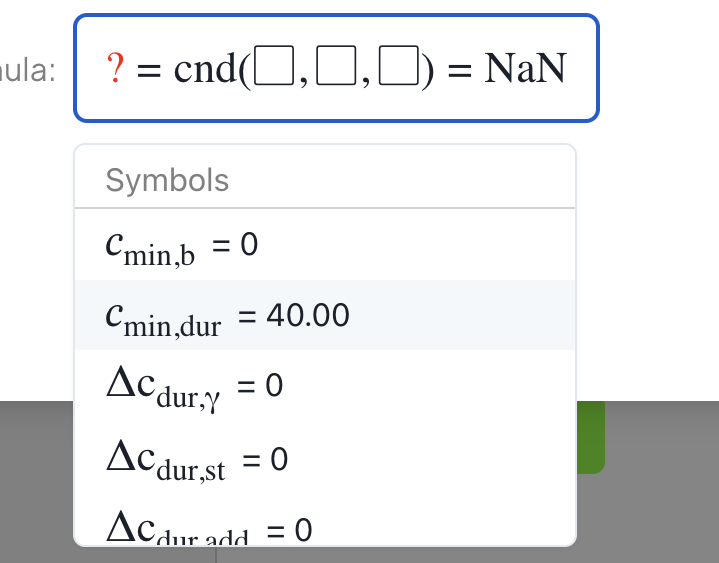
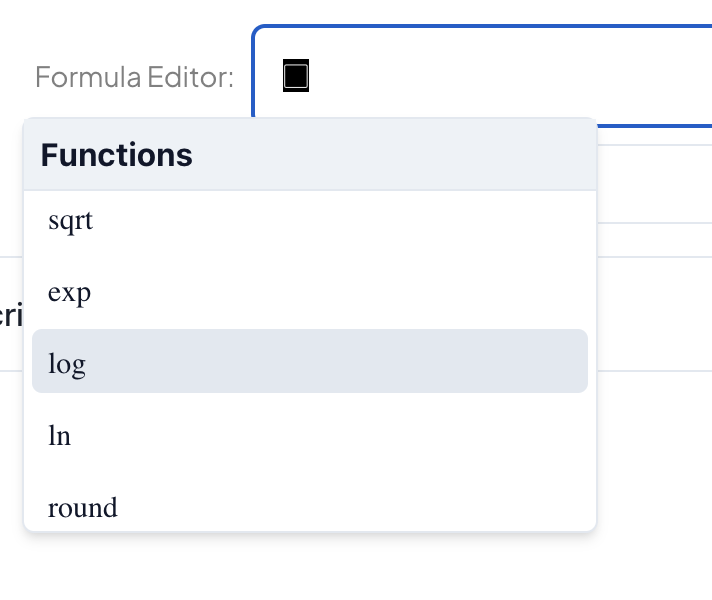
update

diff --git a/README.md b/README.md
@@ -1,21 +1,19 @@
 # Quick Start
 
-Welcome to the Quick Start Guide for Enjicalc, your collaborative software solution to write, review, and manage engineering calculations. We know you're eager to get started with the software, so this guide will walk you through the essential steps to get you up and running quickly.
+Welcome to the Quick Start Guide for Enjicalc, your collaborative software solution for writing, reviewing, and managing engineering calculations. We know you're eager to get started with the software, so this guide will walk you through the essential steps to get you up and running quickly.
 
 ## Key App Components
 
-Enjicalc comprises two general interfaces: a personal dashboard and a workspace. Click Create New Workspace on your dashboard page. In your workspace, click Create Sheet to start your first set of calculations. You should see a Sheet interface:
-
-<figure><img src="images/sheet-page.png" alt="" width="550"><figcaption></figcaption></figure>
+Enjicalc comprises two general interfaces: a personal dashboard and a workspace. On your dashboard page, click Create New Workspace. Feel free to rename the workspace before jumping into it. Inside your workspace, click Create Sheet to start your first set of calculations.
 
 ### Sheet Page
 
-A Sheet Page represents a blueprint for your engineering calculations. It includes a header with attributes such as Sheet Title, Name of the Project, Dates, Author Name, and Checker and Approver Names. Below header starts the Calculations page, which consists of two main elements: 
+A Sheet Page represents a blueprint for your engineering calculations. It includes a header with attributes such as Sheet Title, Name of the Workspace, Dates, Author Name, and Checker and Approver Names. Below header starts the Calculations page, which consists of two main elements: 
 
 - Symbols
 - Sections 
    
-Symbols represent the fundamental part of calculations inside Enjicalc. You can compare it to a Cell in Microsoft Excel. However, Excel only stores a formula describing an engineering formula inside a cell.  Enjicalc uses a more sophisticated approach to work with engineering formulae. Enjicalc's Symbol database holds a formula itself, as well as crucial information related to it, including: 
+The Symbol represents the fundamental part of calculations inside Enjicalc. You can compare it to a Cell in Microsoft Excel. While Excel only stores a formula inside a cell, Enjicalc uses a more sophisticated approach to work with engineering formulae. In Enjicalc's database, Symbol holds a formula itself, as well as crucial information related to it, including: 
 
 - Description
 - Variable Name
@@ -26,9 +24,9 @@ Symbols represent the fundamental part of calculations inside Enjicalc. You can 
 
 ### Symbol & Mathematical Representation
 
-In Microsoft Excel, variables inside formulae represent cell location (AB302, T60), making the Excel formula very hard to review. In Enjicalc, we leveraged subset of AsciiMath syntax to build and manipulate any formulae. Our proprietary technologies and algorithms allow users to create a low-level data structure through a user-friendly interface. This data structure is then used for valuation and displaying a formula on a screen using mathematical expressions, acting as a single source of truth. 
+In Microsoft Excel, variables inside formulas represent cell location (AB302, T60), making the Excel formula very hard to review. Our proprietary technologies and algorithms allow users to create mathematical notation-based formulas through a user-friendly interface. This interface, or Formula Editor as we call it, creates low-level instruction similar to those programming languages are using. These instructions are then used for valuation and displaying a formula on a screen using mathematical expressions, acting as a single source of truth.
 
-This architecture opens up **huge time-saving possibilities** for engineers in construction. To start with, we are drastically accelerating the review of an individual formula. Try to review how BS EN 1992-1-1, Expression (7.9) was calculated:
+This architecture opens up **huge time-saving possibilities** for engineers in construction. First, we are drastically accelerating the review of an individual formula. Try to review how BS EN 1992-1-1, Expression (7.9) was calculated:
 
 Microsoft Excel:
 
@@ -51,11 +49,15 @@ $$
 
 Using variable names that match those in Eurocode or other standards and showing the formula with values substituted for the variables greatly reduces the time needed for review. Our Enjicalc team firmly believes that in some cases, calculations' review time can be decreased by a factor of 50!
 
-Now, let's write our first symbol.
+Now, let's write our first Symbol.
 
 ### Symbol Editor
 
-Press the Add Section and Add Symbol buttons inside a Sheet Page (we will discuss Sections later). You can see a Symbol Editor was opened automatically. To access Symbol Editor after a Symbol was created, hover over the empty Symbol, and you will find the Modify Symbol button on the right-hand side (see below).   
+You can create your first constant by pressing the Add Symbol buttons inside a Sheet Page. Now hover over the Symbol name to change it to "myVariable." You can do the same for Symbol Value and Symbol Unit.
+
+Now, create your second variable and convert it to a formula.
+
+To access the Symbol Editor, commets and description, press three vertical dots to open the Symbol menu, and you will find the Modify Symbol button.
 
 <figure><img src="images/symbol-editor-button.png" alt="" width="550"><figcaption></figcaption></figure>
 
@@ -64,34 +66,23 @@ After the above is done, you can find a Symbol Editor modal. Here is an overview
 - Description - use this to provide an overview of a symbol 
 - Comment - use this to give references or notes on how to use or not to use a symbol
 - Unit - use this to state what units were considered in calculations explicitly
-- Symbol - use this to state a mathematical variable name. More guidance [here]()
+- Symbol - use this to state a mathematical variable name. More guidance [here](https://enjicalc.gitbook.io/documentation/learn-enjicalc/mathml-symbols)
 
 <figure><img src="images/symbol-editor.png" alt="" width="550"><figcaption></figcaption></figure>
 
+And now, most importantly, let's discuss Formula Editor.
 
-And now, most importantly, let's discuss Formula.
+We aim to build an interface that makes writing a formula even more straightforward than in Microsoft Excel. With our custom Formula Editor interface, it is now possible to manipulate variables with the help of general arithmetic operations and functions. The current list of functions can be found [here](https://enjicalc.gitbook.io/documentation/learn-enjicalc/built-in-functions).   
 
-We aim to build an interface that makes writing a formula even more straightforward than in Microsoft Excel. With our custom Formula Editor interface, it is now possible to manipulate mathematical variables with the help of general arithmetic operations and functions. The current list of functions can be found [here]().   
-
-To paste a mathematical variable into a formula, please select an appropriate variable from our Selector using your mouse (see below). Once pasted, click back into the Formula Editor to continue writing. 
-
-> **_NOTE:_** With current version of Formula Editor, we advice first to create empty spaces for variable `▢`, and only then paste initiated symbols.
+To paste a mathematical variable into a formula, please select an appropriate variable from our Selector using "up" or "down" buttons and pressing "enter". 
 
 <figure><img src="images/symbol-selector.png" alt="" width="300"><figcaption></figcaption></figure>
 
-While some functions are straightforward, here is a quick guide on using a conditional statement.
-- Type `cnd` followed by left bracket `(`
-- You can now see `cnd(▢)` was created
-- Inside the functions, press comma `,` twice
-- You can now see `cnd(▢,▢,▢)`
-- You should see the following as `cnd(condition,value_if_true,value_if_false)`
-- Here is example `cnd( 1=2 , 3 , 4 ) = 4`
-
-> **_NOTE:_** The Formula Editor interface is still WIP and might not perform as one would expect. Please report critical and not critical bugs to our Canny Feedback Board.
+> **_NOTE:_** The Formula Editor interface is still WIP and might not perform as expected. Please report both critical and non-critical bugs to our Canny Feedback Board.
 
 ### Sections
 
-As we mentioned, you must press the Add Section before creating the first Symbol to ensure that all Symbols belong to an appropriate group. You can still add Symbols to a Section and move them around as needed. At Enjicalc, we believe it is essential to group Symbols into correct Sections to improve the readability of calculations.
+You can add Sections, add Symbols to a Section and move them around as needed. At Enjicalc, we believe it is essential to group Symbols into correct Sections to improve the readability of calculations.
 
 <figure><img src="images/section-with-symbols.png" alt="" width="550"><figcaption></figcaption></figure>
 
@@ -100,7 +91,7 @@ As we mentioned, you must press the Add Section before creating the first Symbol
 The current version of Enjicalc is our Minimum Viable Product (MVP). There is still a long way to go. However, here is a list of powerful features we aim to deliver by the end of 2024:
 
 - Vectorisation
-  - Imagine you could convert your Excel spreadsheet into a function and control what functions' input and output 
+  - Imagine converting your Excel spreadsheet into a global function and reusing this function in other Excel spreadsheets.
 - Version control
   - We will record every single change that was made to your work. No more SharePoint chaos.
 - API to Sheets 
